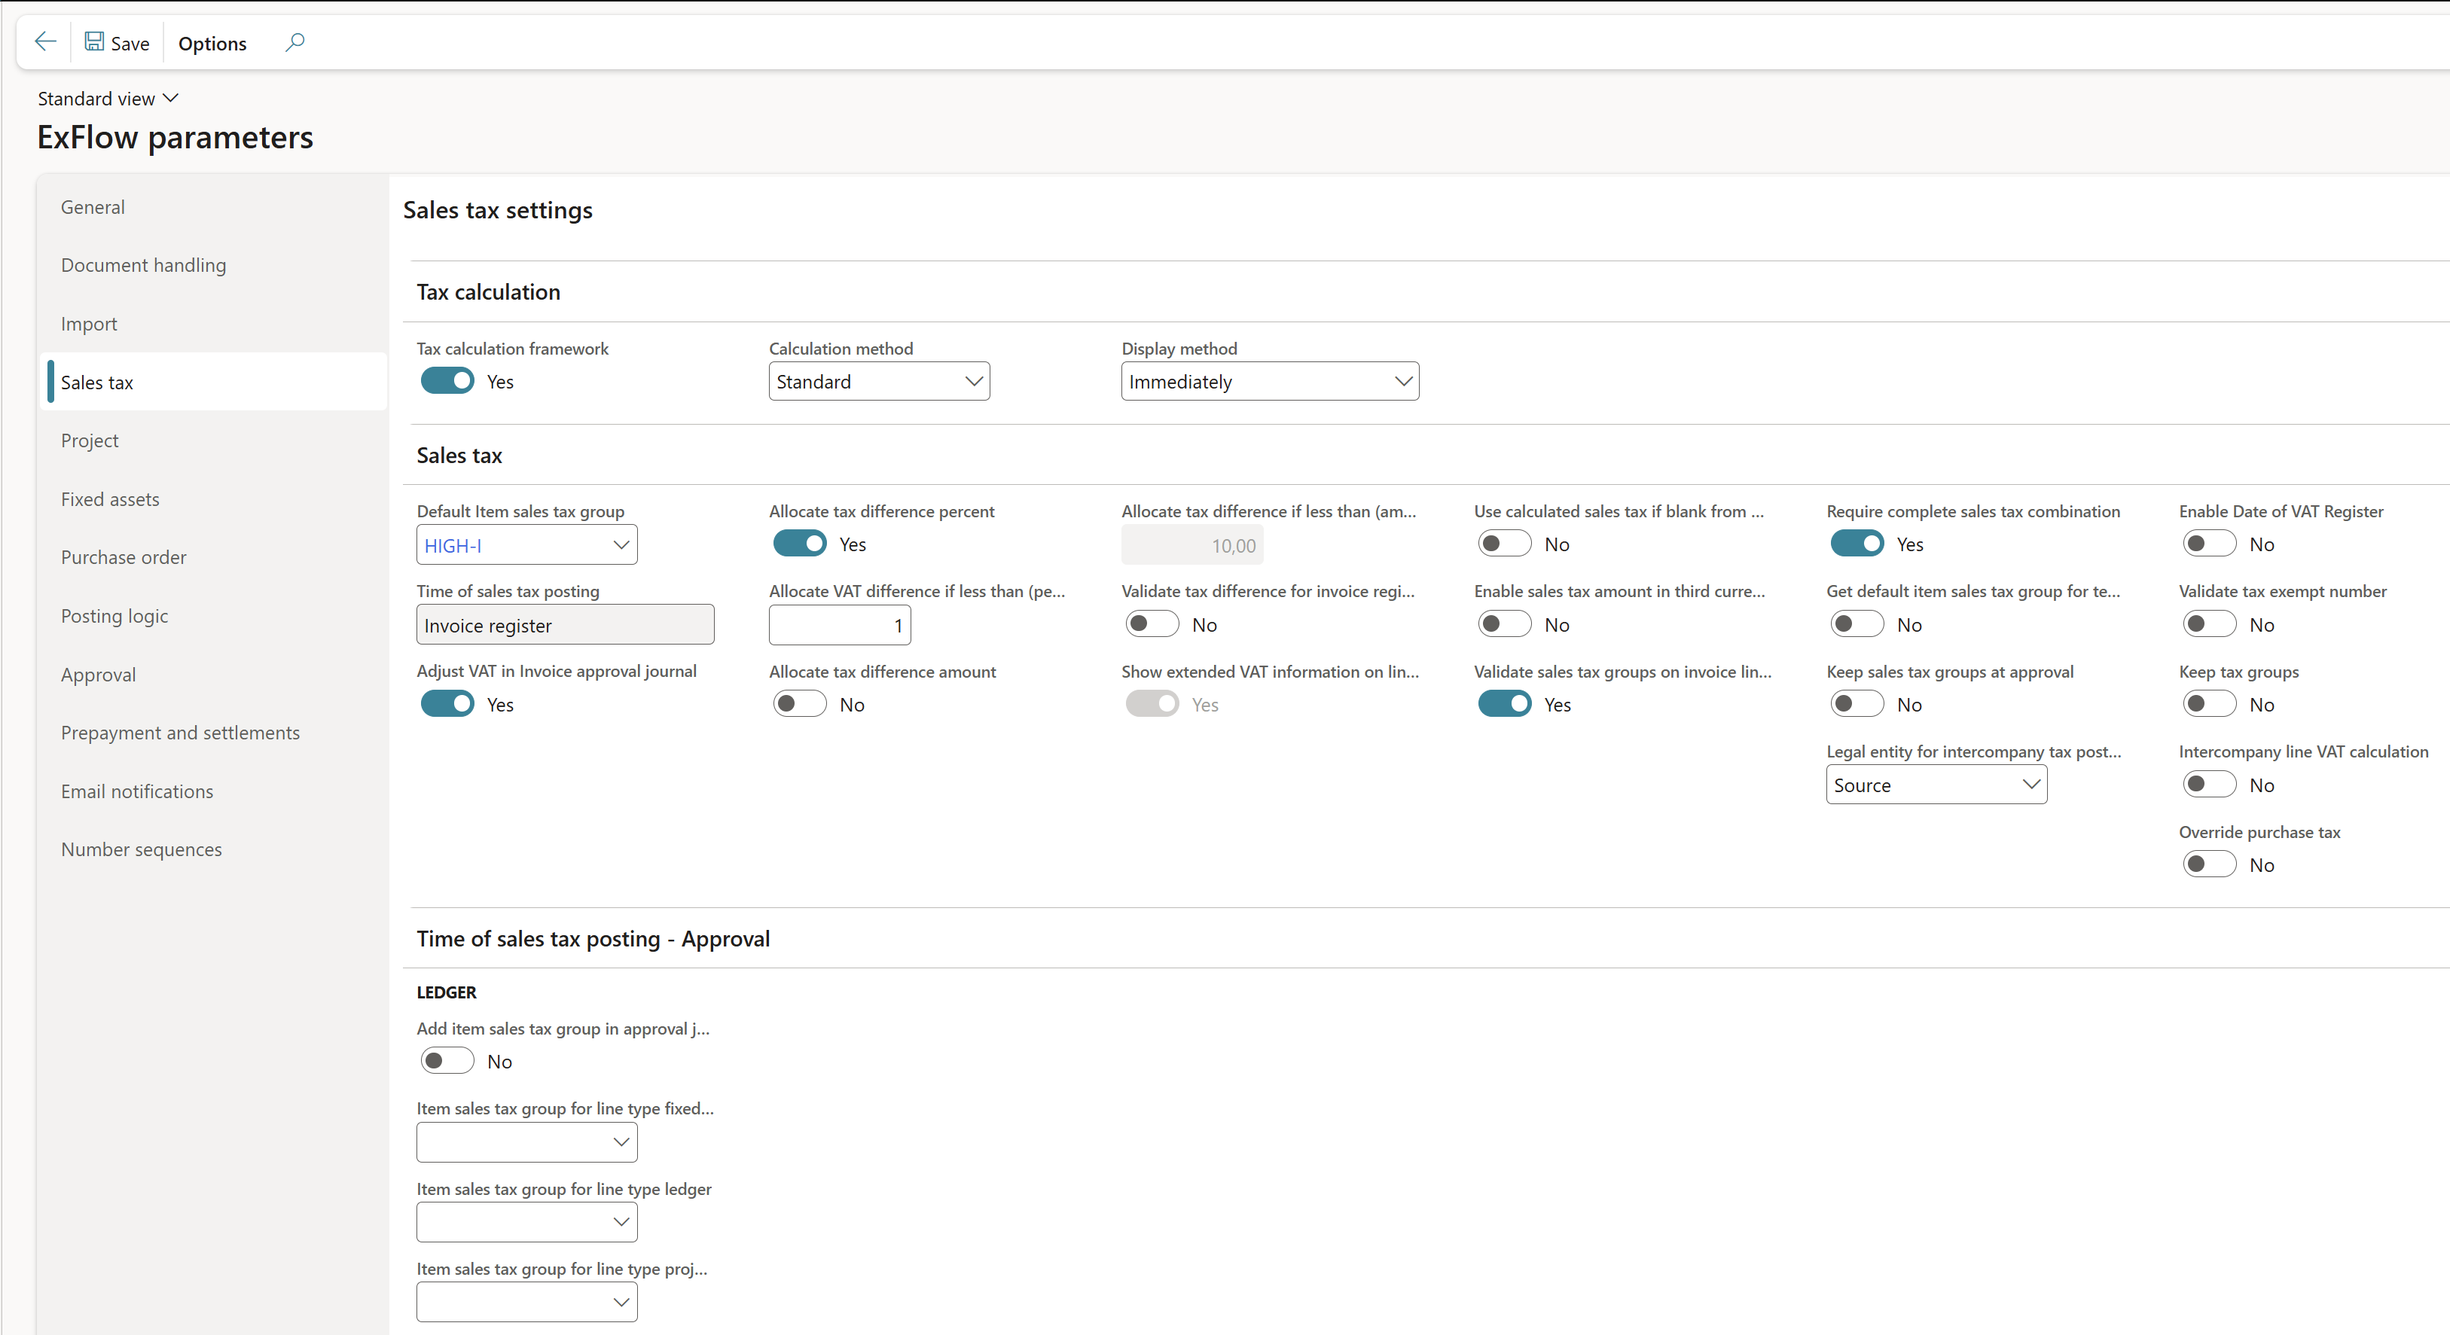
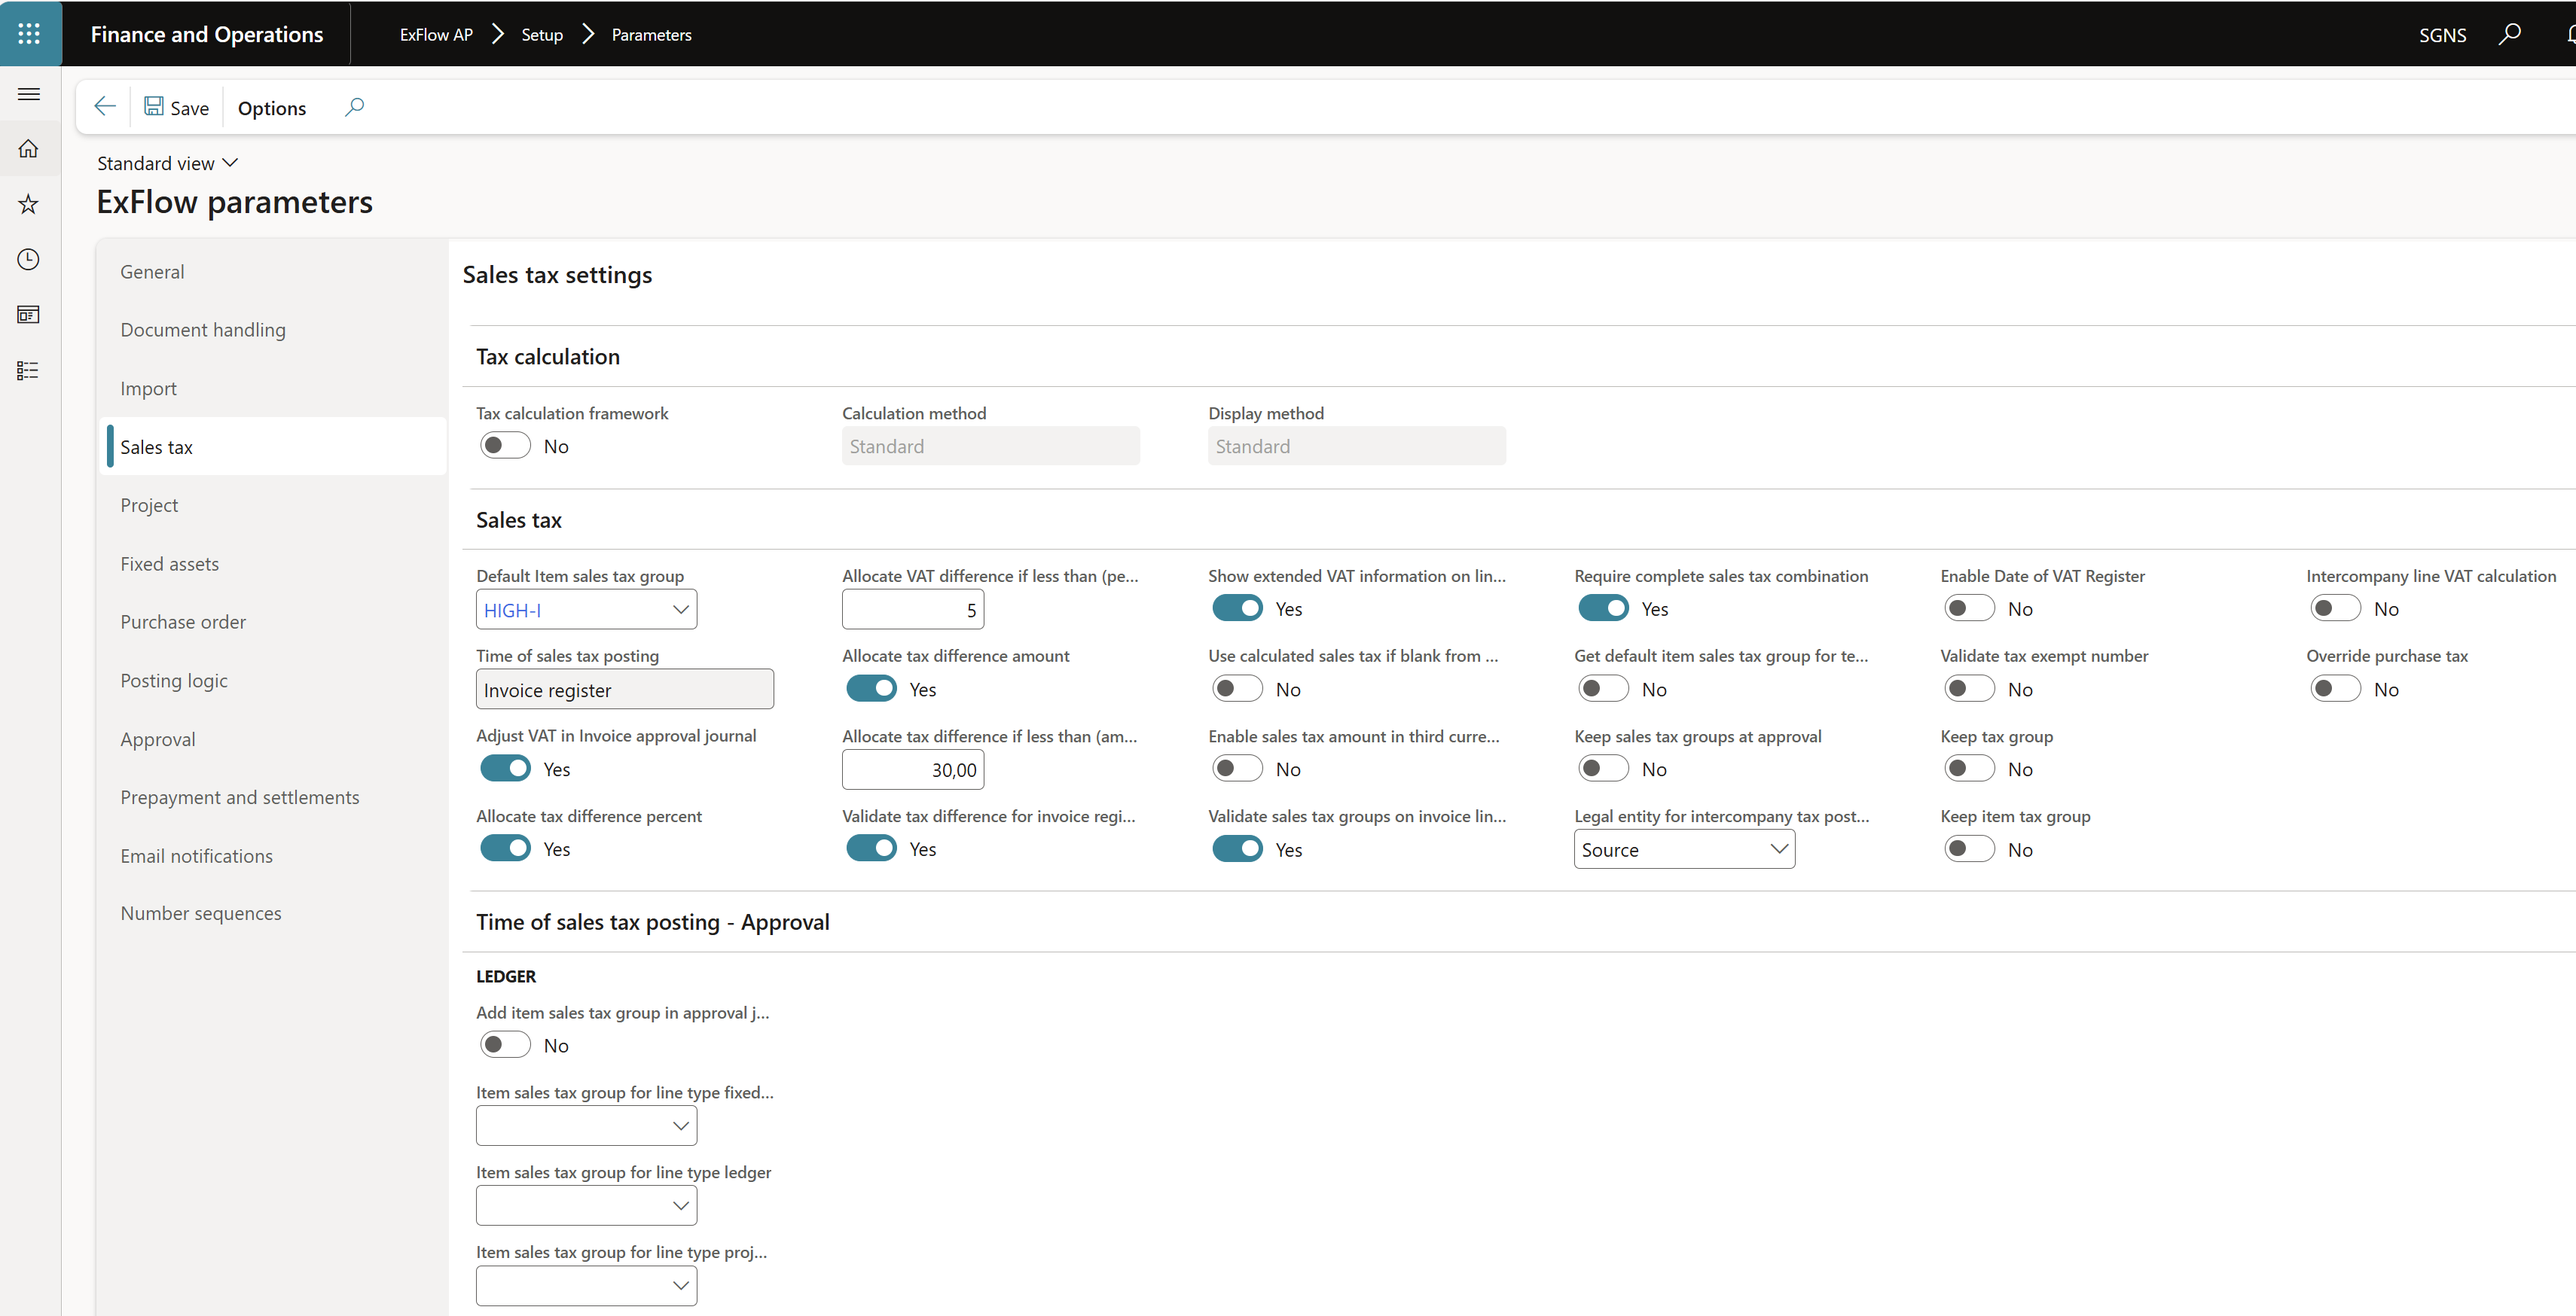
update2505261

diff --git a/docs/user-manual/3-get-started/7-parameters.md b/docs/user-manual/3-get-started/7-parameters.md
@@ -90,10 +90,10 @@ ExFlow \| Setup \| Parameters
 
 | Sales tax  | |
 |:-|:-|
-|Tax calculation framework| **To enable this feature;** Navigate to ExFlow AP - Setup - General Parameters - Feature management, Activate the Tax caclulation framwork.<br/> **If turned off;** Old display method approach will be used.<br/> **If turned on;** The new calculation method with support for Tax calculation service takes place, that can be configured through "Calculation method" and "Display method".|
+|**Tax calculation**<br/>Tax calculation framework| **To enable this feature;** Navigate to ExFlow AP - Setup - General Parameters - Feature management, Activate the Tax caclulation framwork.<br/> **If turned off;** Old display method approach will be used.<br/> **If turned on;** The new calculation method with support for Tax calculation service takes place, that can be configured through "Calculation method" and "Display method".|
 |Calculation method|The calculation method lets you decide whether which tax calculation method to use the per legal entity.<br/>**Standard;** Use standard D365FO tax setup.<br/>**MS Sales Tax calculation service;** Send the transaction to the Tax calculation service.|
 |Display method|The display method in ExFlow controls how changes to a transaction, which could trigger a sales tax update, are indicated.<br/> For example, if a user modifies the amount on an invoice line, ExFlow can indicate that the sales tax might be impacted, although it hasn’t yet been sent to the tax calculation service.<br/>**Standard;** If the display method is set to Standard, ExFlow will mirror how journals (such as invoice registers or invoice journals) in standard D365FO display sales tax. In this mode, the sales tax is not visible at the header or line level but can be accessed by selecting Sales tax and entering the sales tax form. This method is recommended if performance is a priority.<br/> **Indicate change;** The display method “Indicate change” will give the user a visual representation in the form that there has been made a change that might affect the sales tax calculation.<br/>**Immediately;** In this mode, the sales tax is calculated instantly based on inputs at the header and line levels. For example, changes to the amount, sales tax group, item sales tax group, or sales tax code will immediately trigger a sales tax calculation for the invoice line. Available with calculation method “Microsoft Sales Tax Calculation”.|
-|Default Item sales tax group | When import expense invoice, Select the default item sales tax group to use.  |
+|**Sales Tax**<br/>Default Item sales tax group | When import expense invoice, Select the default item sales tax group to use.  |
 |Time of sales tax posting | Information of when the sales tax is posted, display from accounts payable pararmeters.|
 |Adjust VAT in Invoice approval journal|Enable if ExFlow should handle the VAT difference between the VAT registered and the VAT allocated to invoice lines to be posted in invoice journal.|
 |Allocate tax difference percent| Used in combination with "Adjust VAT at approval". If ExFlow should automatically handle the difference between the invoice register VAT and the calculated VAT in invoice approval based on percentage. |
@@ -111,8 +111,10 @@ ExFlow \| Setup \| Parameters
 |Legal entity for intercompany tax posting | Used to setup if the VAT should be deducted in the source company or in the destination company. Since by default all the journals have destination and when ExFlow post intercompany invoices via batch it must be possible to setup if source should be used.|
 |Enable Date of VAT Register| Enables the Date of VAT Register field in ExFlow for other legal enities then in Eastern Europe. To be able to work with this field the functionality for "Date of VAT Register" must be switched on in feature management. |
 |Validate tax exempt number  | Will validate the tax-exempt number on the invoice with the tax-exempt number on the PO. Only valid for PO invoices.|
-|Keep tax groups | If ticked, ExFlow will keep the tax groups although coding is changed. Otherwise, the tax groups will be retrieved. |
-|Intercompany line VAT calculation||
+|Keep tax group/Item tax group|- If both parameters ‘Keep tax group’ and ‘Keep item sales tax group’ is disabled, both the sales tax group and item sales tax group set on the main account will be inherited on the ledger line when coding.<br/> -If both the parameters ‘Keep tax group’ and ‘Keep item sales tax group’
+will be enabled, ExFlow will keep both sales tax group and item sales tax group although coding is changed. - If both the parameters ‘Keep tax group’ and ‘Keep item sales tax group’ will be enabled, ExFlow will keep the tax groups both sales tax group and item sales tax group although coding is changed.<br/> -If ‘Keep tax group’
+ is enabled and ‘Keep item sales tax group’ is disabled, ExFlow will only keep the sales tax group and will inherit the item sales tax group set on the main account if coding is changed and vice- versa.|
+|Intercompany line VAT calculation|
 |Override purchase tax|Enbale to allow override on the purchase tax on Purchase order invoices. |
 
 | Time of sales tax posting |- Approval|
